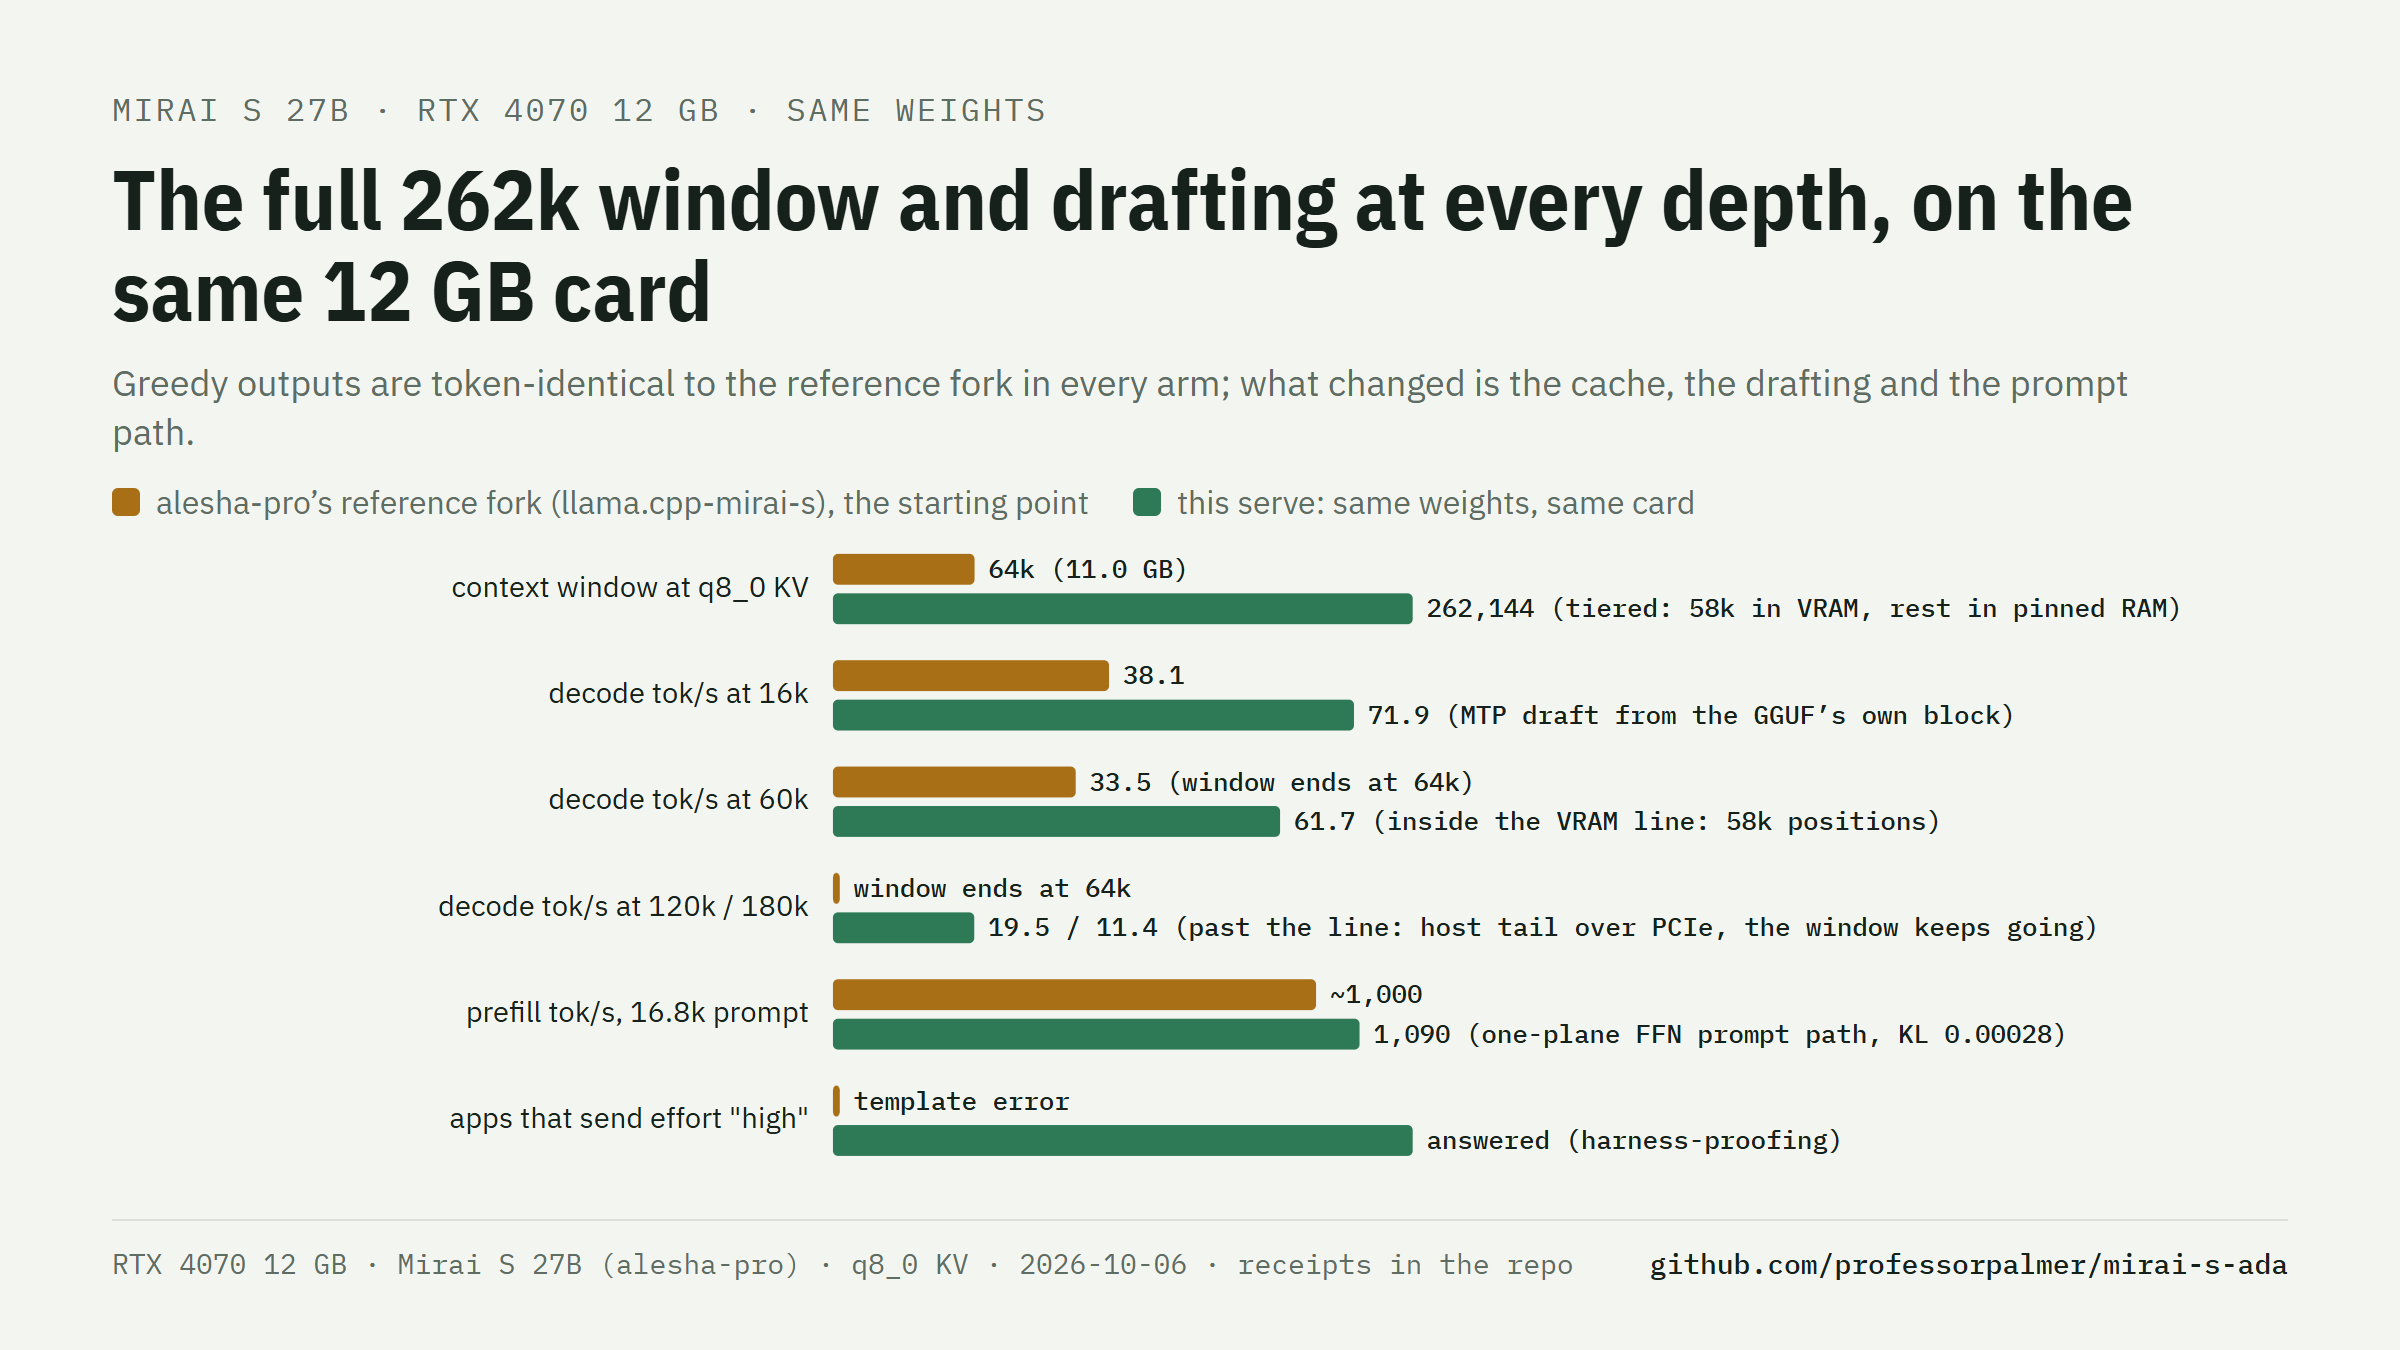
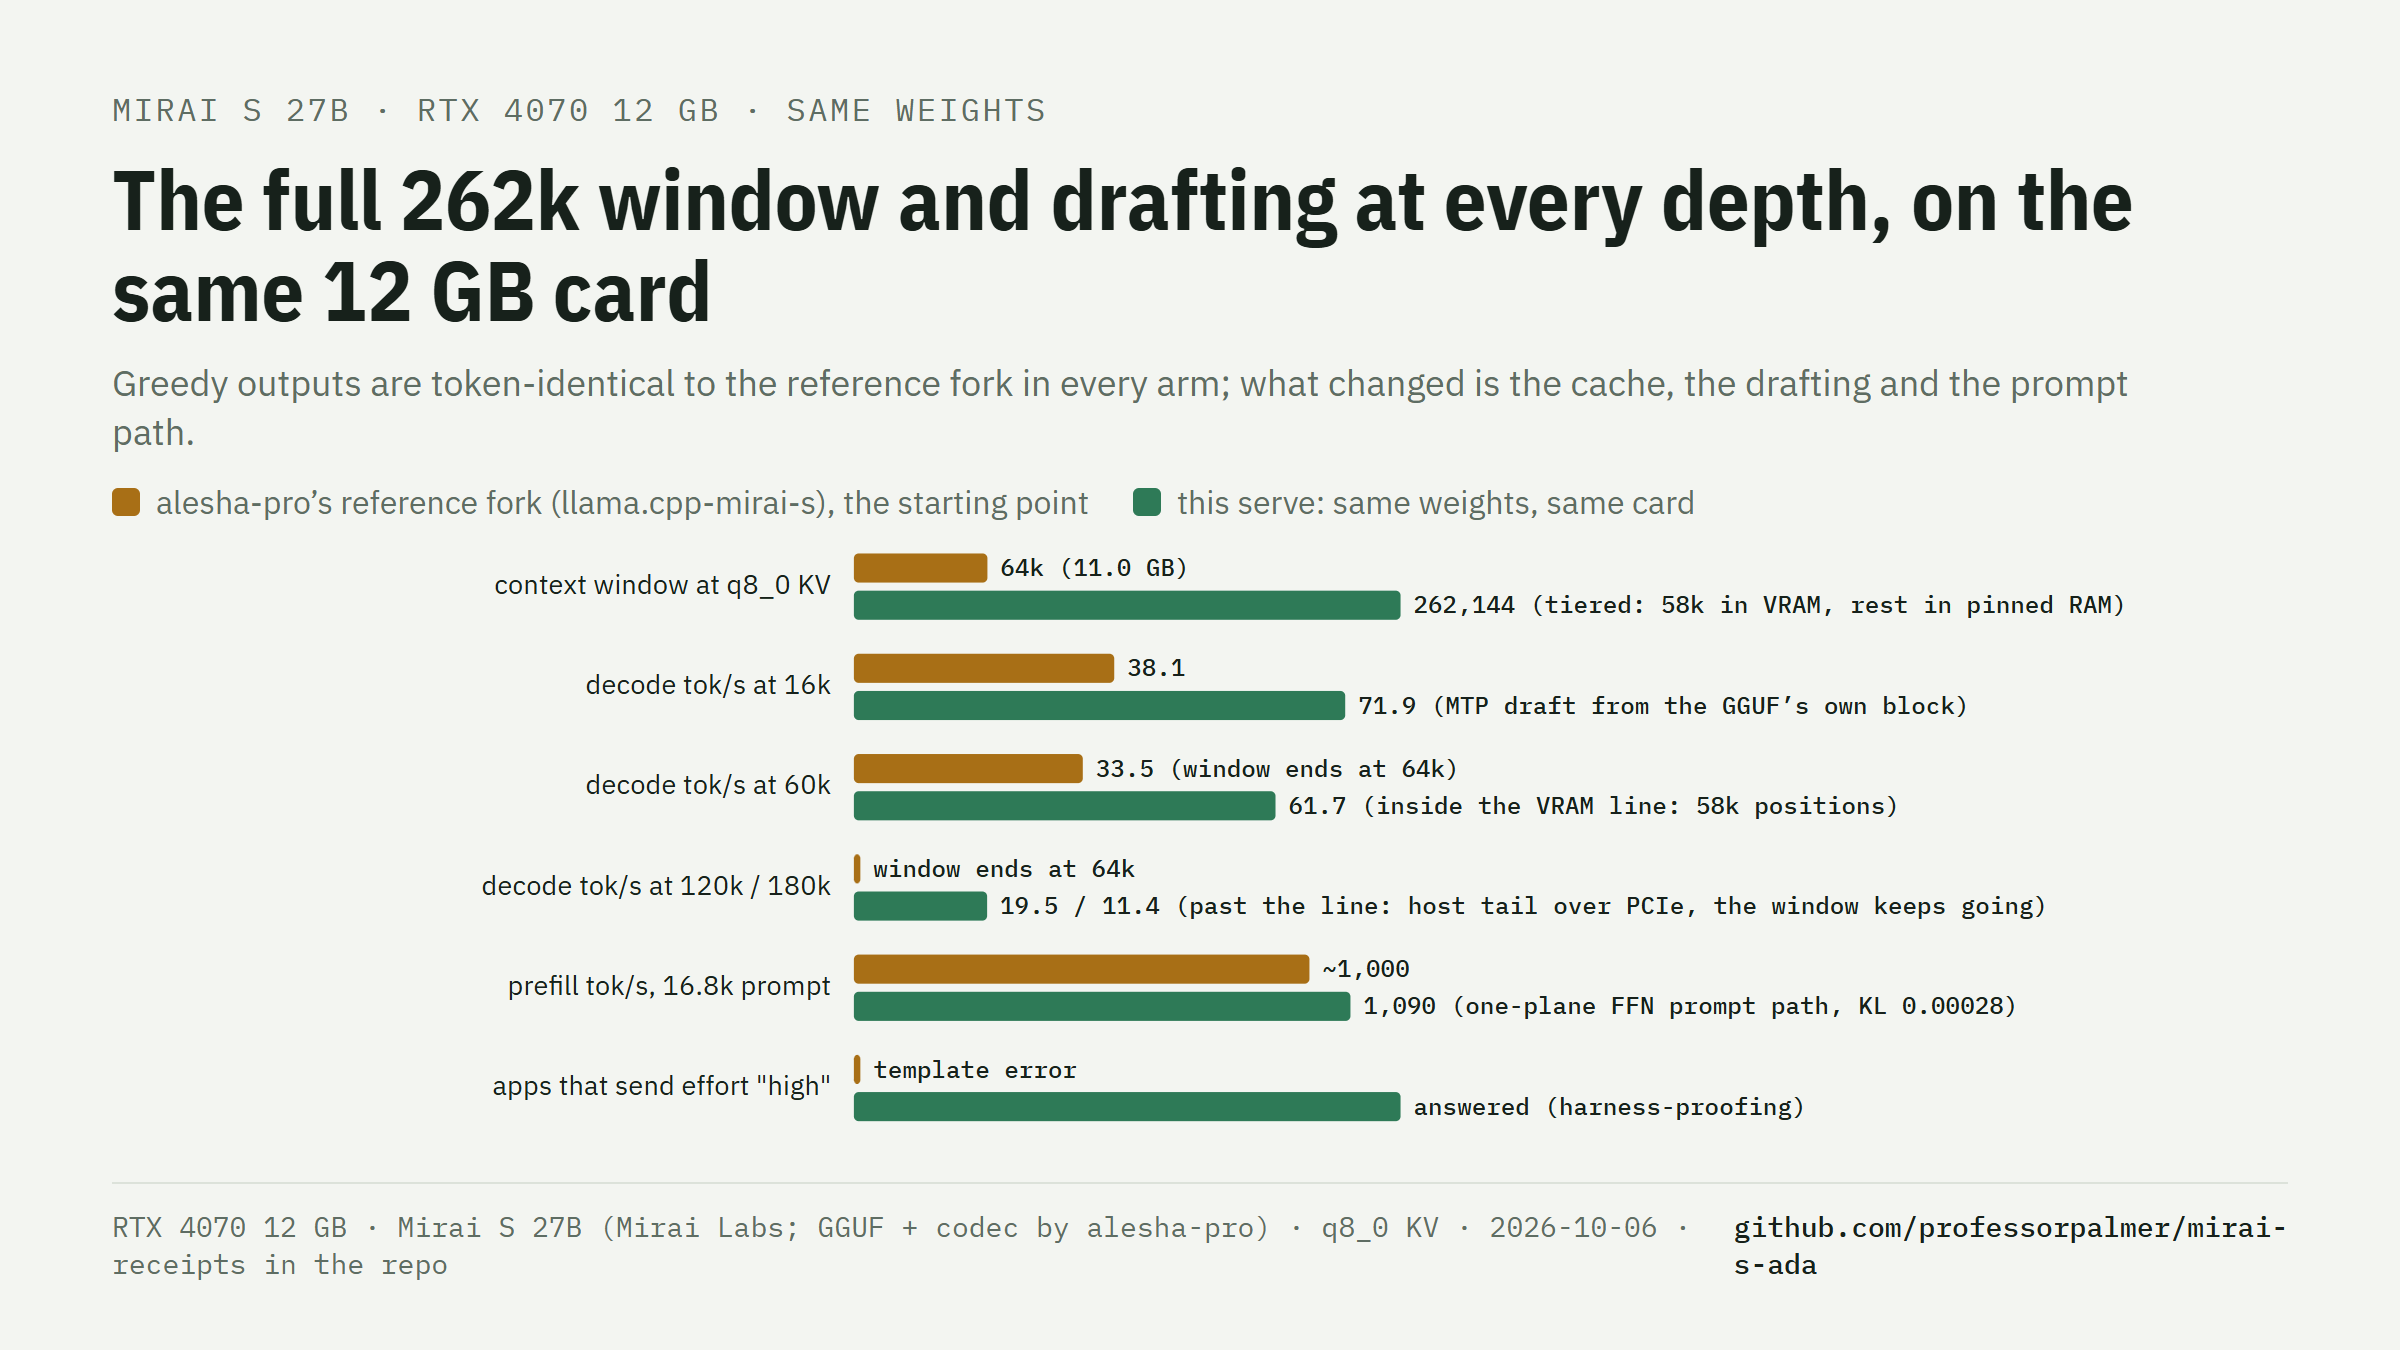
Attribution: the model and its quantization are Mirai Labs' (trymirai); alesha-pro is credited for the GGUF conversion, the codec and the fork this serve was built from

diff --git a/docs/img/cards.html b/docs/img/cards.html
@@ -21,7 +21,7 @@ svg text{font-family:var(--mono);font-size:14px;fill:var(--muted)} svg .cat{font
 <script>
 var NS='http://www.w3.org/2000/svg';
 function el(t,a,txt){var e=document.createElementNS(NS,t);for(var k in a)e.setAttribute(k,a[k]);if(txt!==undefined)e.textContent=txt;return e;}
-var FOOT='<div class="foot"><span>RTX 4070 12 GB · Mirai S 27B (alesha-pro) · q8_0 KV · 2026-10-06 · receipts in the repo</span><span><b>github.com/professorpalmer/mirai-s-ada</b></span></div>';
+var FOOT='<div class="foot"><span>RTX 4070 12 GB · Mirai S 27B (Mirai Labs; GGUF + codec by alesha-pro) · q8_0 KV · 2026-10-06 · receipts in the repo</span><span><b>github.com/professorpalmer/mirai-s-ada</b></span></div>';
 function card(eyebrow,title,sub,rows,opts){
   // rows: [label, refVal, ourVal, max, refText, ourText]
   var W=1088,L=(opts&&opts.L)||330,R=(opts&&opts.R)||170,rowH=(opts&&opts.rowH)||62,barH=18,H=rows.length*rowH+6;

diff --git a/README.md b/README.md
@@ -1,13 +1,15 @@
 # Mirai S 27B on a 12 GB card: the full 262k window, drafting at every depth, and the layer
 
-[Mirai S](https://huggingface.co/alesha-pro/Qwen3.8-27B-S-mirai-GGUF) (Qwen3.8-27B-S, trellis codes, ~2.4 bits of
-information per weight, 11.17 GB) served on an **RTX 4070 12 GB** with the **full 262,144-token trained window at q8_0
+[Mirai S](https://huggingface.co/alesha-pro/Qwen3.8-27B-S-mirai-GGUF) (Qwen3.8-27B-S: [Mirai Labs](https://trymirai.com)'
+trellis-coded Qwen3.8-27B, ~2.4 bits of information per weight, converted to GGUF with its own ggml codec and
+llama.cpp fork by alesha-pro; 11.17 GB) served on an **RTX 4070 12 GB** with the **full 262,144-token trained window at q8_0
 KV cache**, MTP speculative decoding from the GGUF's own draft block at every depth, harness-proofing for the apps
 that send `effort: "high"` or tiny output caps, and an optional server-side layer (exact API cards, an API check, a
 sandboxed Python tool). Same weights as published; every kernel checked greedy token-for-token against the model's
-own llama.cpp fork before anything else was measured. This is a serving layer on top of alesha-pro's work, not a
-replacement for it: the codec, the model and the reference fork are theirs; the cache, drafting, server flags and
-measurements here are what a 12 GB card adds around them.
+own llama.cpp fork before anything else was measured. This is a serving layer on top of two other people's work, not
+a replacement for either: the model and its quantization are Mirai Labs'; the GGUF, the ggml codec kernels and the
+reference fork this was checked against are alesha-pro's; the cache, drafting, server flags and measurements here
+are what a 12 GB card adds around them.
 
 | RTX 4070 12 GB, served, one slot | alesha-pro's reference fork (`llama.cpp-mirai-s`, the starting point) | this serve |
 | --- | ---: | ---: |
@@ -239,13 +241,16 @@ python bench\determinism_probe.py                             # same request and
 - The engine (`engine/`): llama.cpp is MIT (the ggml authors); PrismML's fork and alesha-pro's fork are MIT; their
   notices are preserved in the engine tree. The Mirai codec kernels are alesha-pro's work, ported with attribution in
   the commit history and `engine/README.md`.
-- The model weights are not redistributed here. `Qwen3.8-27B-S-mirai-GGUF` is published by alesha-pro under the
+- The model weights are not redistributed here. The model is Mirai Labs' `Qwen3.8-27B-S` (trymirai), a quantization
+  of Alibaba's Qwen3.8-27B; `Qwen3.8-27B-S-mirai-GGUF` is alesha-pro's community conversion of it, published under the
   license on its Hugging Face card (Qwen3.8 itself is Apache 2.0); download it from there and keep its notices.
-- Nothing here is affiliated with, endorsed by or sponsored by alesha-pro, PrismML or Alibaba's Qwen team.
+- Nothing here is affiliated with, endorsed by or sponsored by Mirai Labs, alesha-pro, PrismML or Alibaba's Qwen team.
 
 ## Credits
 
-alesha-pro for the model, its codec and the llama.cpp fork it ships with, and for the refusal vector, the projection
+Mirai Labs for the model: Qwen3.8-27B-S and its trellis quantization. alesha-pro for the GGUF conversion, the ggml
+codec and kernels, the llama.cpp fork it ships with (the version this serve was built from and checked against), and
+for the refusal vector, the projection
 mode and the Linux check. PrismML for the llama.cpp fork the engine
 is built on. sudoingX for the planar activation layout and batch-invariant mode in that fork. MIT for everything here;
-the weights are their authors'. Not affiliated with alesha-pro or PrismML.
+the weights are their authors'. Not affiliated with Mirai Labs, alesha-pro or PrismML.

diff --git a/RELEASE-NOTES.md b/RELEASE-NOTES.md
@@ -1,6 +1,7 @@
 # mirai-s-ada, first release (bundle-20261006)
 
-Mirai S 27B (alesha-pro's Qwen3.8-27B-S trellis GGUF, 11.17 GB) served on an RTX 4070 12 GB with:
+Mirai S 27B (Mirai Labs' Qwen3.8-27B-S trellis quantization, in alesha-pro's GGUF conversion with his ggml codec,
+11.17 GB) served on an RTX 4070 12 GB with:
 
 - the model's **full 262,144-token window at q8_0 KV** (tiered cache: ~44k positions in VRAM, the rest in pinned
   system RAM, bit-identical to an all-VRAM cache; the model's own fork fits 64k at q8_0 on the same card),
@@ -32,7 +33,8 @@ Binaries: sm_89 (RTX 40), CUDA 13 runtime included, NVIDIA driver only. Engine: 
 (PrismML's llama.cpp fork + the serving patches, also open as PrismML PRs #319-#323, + the Mirai codec ported from
 alesha-pro/llama.cpp-mirai-s and verified greedy token-for-token against it).
 
-Credits: alesha-pro (model, codec, fork), PrismML (the llama.cpp fork), sudoingX (planar activations, batch-invariant
+Credits: Mirai Labs (the model and its quantization), alesha-pro (GGUF conversion, codec, fork), PrismML (the llama.cpp
+fork), sudoingX (planar activations, batch-invariant
 mode). Not affiliated with either.
 
 ## bundle-20261006b (same day)

diff --git a/docs/REPORT.md b/docs/REPORT.md
@@ -5,7 +5,8 @@ Running notes, newest at the bottom. Method: paired runs, frozen plans and gates
 
 ## 1. The model
 
-`alesha-pro/Qwen3.8-27B-S-mirai-GGUF` (sha256 5aa4365c...), 11.17 GB. Qwen3.8-27B-S weights in four trellis-coded
+`alesha-pro/Qwen3.8-27B-S-mirai-GGUF` (sha256 5aa4365c...), 11.17 GB: alesha-pro's GGUF conversion of Mirai Labs'
+`Qwen3.8-27B-S` (trymirai; a trellis quantization of Alibaba's Qwen3.8-27B). Its weights are in four trellis-coded
 ggml types (`MS_V4T8`, `MS_V2T4`, `MS_V2T6`, `MS_I3`, ids 90-93 in the engine), about 2.4 bits of information per
 weight; model-wide rotation tensors (`mirai.rot.*`), a head auxiliary tensor (`mirai.head_aux`), a split attention
 gate, and the MTP draft block (`blk.64`) in Q8_0 inside the same file.

diff --git a/docs/CONTROL-VECTOR.md b/docs/CONTROL-VECTOR.md
@@ -1,6 +1,7 @@
 # Removing refusals at run time: alesha-pro's control vector (optional, off by default)
 
-Written by [alesha-pro](https://github.com/alesha-pro), the author of the model, its codec and the reference fork,
+Written by [alesha-pro](https://github.com/alesha-pro), the author of the GGUF conversion, its ggml codec and the
+reference fork this serve was built from (the model itself is Mirai Labs' Qwen3.8-27B-S),
 and contributed in [pull request #1](https://github.com/professorpalmer/mirai-s-ada/pull/1) together with the
 engine's projection mode (`--cvec-mode project`,
 [llama.cpp-ada-mirai#1](https://github.com/professorpalmer/llama.cpp-ada-mirai/pull/1)). The measurements below are
